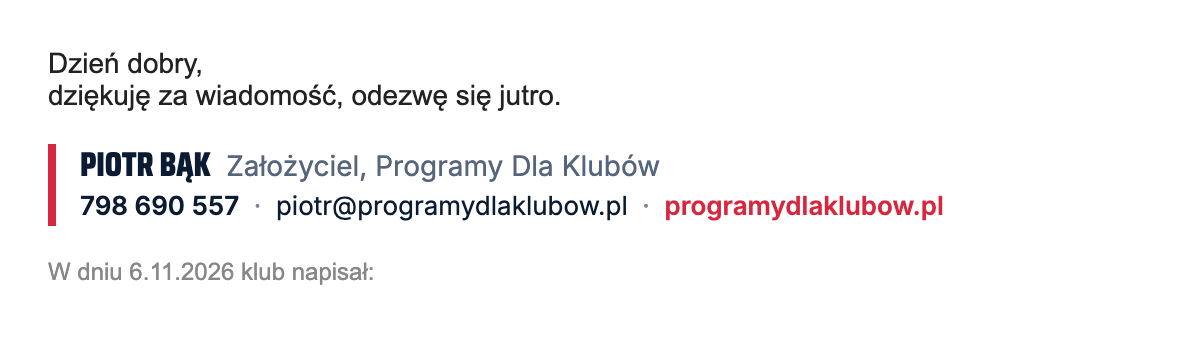
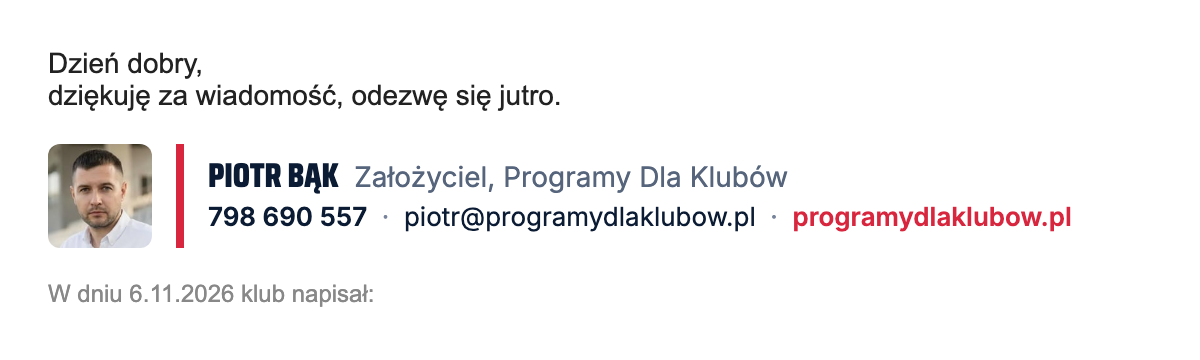
Krótka stopka PDK: zdjęcie twarzy

Changed region(s): [[0.0308, 0.3824, 0.8942, 0.7059], [0.0308, 0.1471, 0.4625, 0.3235], [0.0308, 0.7647, 0.3083, 0.8529]]

diff --git a/pdk-2026/podglad-krotka-lokalny.html b/pdk-2026/podglad-krotka-lokalny.html
@@ -1,0 +1,16 @@
+<!doctype html><meta charset="utf-8"><body style="margin:24px;background:#fff;font-family:Arial;color:#222;font-size:14px"><p style="margin:0 0 16px">Dzień dobry,<br>dziękuję za wiadomość, odezwę się jutro.</p>
+<!-- Krótka stopka do odpowiedzi i przekazywanych dalej: Piotr Bąk / Programy Dla Klubów, design system PDK 2.42. Jedyny obrazek: zdjęcie.
+     Pełna wersja do nowych wiadomości: stopka-piotr-bak.html -->
+<table cellpadding="0" cellspacing="0" border="0" role="presentation" style="border-collapse:collapse;font-family:Inter,Arial,Helvetica,sans-serif;color:#0B1B33;">
+  <tr>
+    <td valign="middle" width="52" style="width:52px;padding:0 12px 0 0;">
+      <img src="piotr-bak-twarz-160.jpg" alt="Piotr Bąk" width="52" height="52" style="display:block;width:52px;height:52px;border:0;border-radius:6px;">
+    </td>
+    <td width="4" bgcolor="#D7263D" style="width:4px;background-color:#D7263D;font-size:0;line-height:0;">&nbsp;</td>
+    <td valign="middle" style="padding:0 0 0 12px;">
+      <div style="font-size:14px;line-height:20px;"><span style="font-family:'Saira Condensed','Arial Narrow',Arial,sans-serif;font-size:17px;font-weight:800;text-transform:uppercase;color:#0B1B33;">Piotr Bąk</span><span style="color:#56657C;">&nbsp;&nbsp;Założyciel, Programy Dla Klubów</span></div>
+      <div style="font-size:13px;line-height:20px;color:#56657C;"><a href="tel:+48798690557" style="color:#0B1B33;text-decoration:none;font-weight:600;">798 690 557</a><span style="color:#76839A;">&nbsp;&nbsp;·&nbsp;&nbsp;</span><a href="mailto:piotr@programydlaklubow.pl" style="color:#0B1B33;text-decoration:none;">piotr@programydlaklubow.pl</a><span style="color:#76839A;">&nbsp;&nbsp;·&nbsp;&nbsp;</span><a href="https://programydlaklubow.pl/" style="color:#D7263D;text-decoration:none;font-weight:600;">programydlaklubow.pl</a></div>
+    </td>
+  </tr>
+</table>
+<p style="margin:16px 0 0;color:#888;font-size:12px">W dniu 6.11.2026 klub napisał:</p>

diff --git a/pdk-2026/stopka-piotr-bak-krotka.html b/pdk-2026/stopka-piotr-bak-krotka.html
@@ -1,9 +1,12 @@
-<!-- Krótka stopka do odpowiedzi i przekazywanych dalej: Piotr Bąk / Programy Dla Klubów, design system PDK 2.42. Bez obrazków.
+<!-- Krótka stopka do odpowiedzi i przekazywanych dalej: Piotr Bąk / Programy Dla Klubów, design system PDK 2.42. Jedyny obrazek: zdjęcie.
      Pełna wersja do nowych wiadomości: stopka-piotr-bak.html -->
 <table cellpadding="0" cellspacing="0" border="0" role="presentation" style="border-collapse:collapse;font-family:Inter,Arial,Helvetica,sans-serif;color:#0B1B33;">
   <tr>
+    <td valign="middle" width="52" style="width:52px;padding:0 12px 0 0;">
+      <img src="https://raw.githubusercontent.com/ahuramazdao/email-signature/main/pdk-2026/piotr-bak-twarz-160.jpg" alt="Piotr Bąk" width="52" height="52" style="display:block;width:52px;height:52px;border:0;border-radius:6px;">
+    </td>
     <td width="4" bgcolor="#D7263D" style="width:4px;background-color:#D7263D;font-size:0;line-height:0;">&nbsp;</td>
-    <td style="padding:0 0 0 12px;">
+    <td valign="middle" style="padding:0 0 0 12px;">
       <div style="font-size:14px;line-height:20px;"><span style="font-family:'Saira Condensed','Arial Narrow',Arial,sans-serif;font-size:17px;font-weight:800;text-transform:uppercase;color:#0B1B33;">Piotr Bąk</span><span style="color:#56657C;">&nbsp;&nbsp;Założyciel, Programy Dla Klubów</span></div>
       <div style="font-size:13px;line-height:20px;color:#56657C;"><a href="tel:+48798690557" style="color:#0B1B33;text-decoration:none;font-weight:600;">798 690 557</a><span style="color:#76839A;">&nbsp;&nbsp;·&nbsp;&nbsp;</span><a href="mailto:piotr@programydlaklubow.pl" style="color:#0B1B33;text-decoration:none;">piotr@programydlaklubow.pl</a><span style="color:#76839A;">&nbsp;&nbsp;·&nbsp;&nbsp;</span><a href="https://programydlaklubow.pl/" style="color:#D7263D;text-decoration:none;font-weight:600;">programydlaklubow.pl</a></div>
     </td>

diff --git a/README.md b/README.md
@@ -5,7 +5,7 @@ Stopki e-mail Programy Dla Klubów.
 ## pdk-2026 (nowy design system PDK, 6.11.2026)
 
 - `pdk-2026/stopka-piotr-bak.html` - pełna stopka do nowych wiadomości (obrazki z tego repo, adresy raw.githubusercontent.com), podgląd `pdk-2026/podglad.png`
-- `pdk-2026/stopka-piotr-bak-krotka.html` - krótka stopka do odpowiedzi i przekazywanych dalej, bez obrazków, podgląd `pdk-2026/podglad-krotka.png`
+- `pdk-2026/stopka-piotr-bak-krotka.html` - krótka stopka do odpowiedzi i przekazywanych dalej, tylko ze zdjęciem twarzy (`piotr-bak-twarz-160.jpg`), podgląd `pdk-2026/podglad-krotka.png`
 - logo i ikony wygenerowane z design systemu PDK (`assets/logo/pdk-logo-poziome-kolor.svg`, `icons/icons.json`)
 
 Wklejanie: otwórz plik w Chrome, Cmd+A, Cmd+C, wklej w ustawieniach podpisu programu pocztowego.
